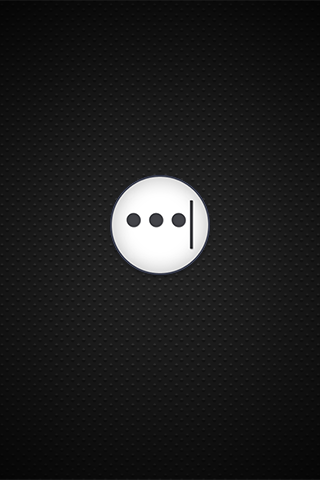
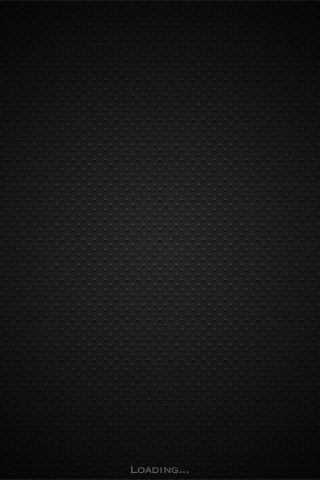
Prettier loading screen and disable Crashlytics debug mode.

Changed region(s): [[0.3438, 0.3438, 0.6562, 0.5938], [0.4062, 0.9688, 0.5625, 1.0]]

diff --git a/Sources/MPAppDelegate.m b/Sources/MPAppDelegate.m
@@ -84,7 +84,9 @@
         NSString *crashlyticsAPIKey = [self crashlyticsAPIKey];
         if ([crashlyticsAPIKey length]) {
             inf(@"Initializing Crashlytics");
+#if defined (DEBUG) || defined (ADHOC)
             [Crashlytics sharedInstance].debugMode = YES;
+#endif
             [[Crashlytics sharedInstance] setObjectValue:@"Anonymous" forKey:@"username"];
             [[Crashlytics sharedInstance] setObjectValue:[PearlKeyChain deviceIdentifier] forKey:@"deviceIdentifier"];
             [Crashlytics startWithAPIKey:crashlyticsAPIKey afterDelay:0];
